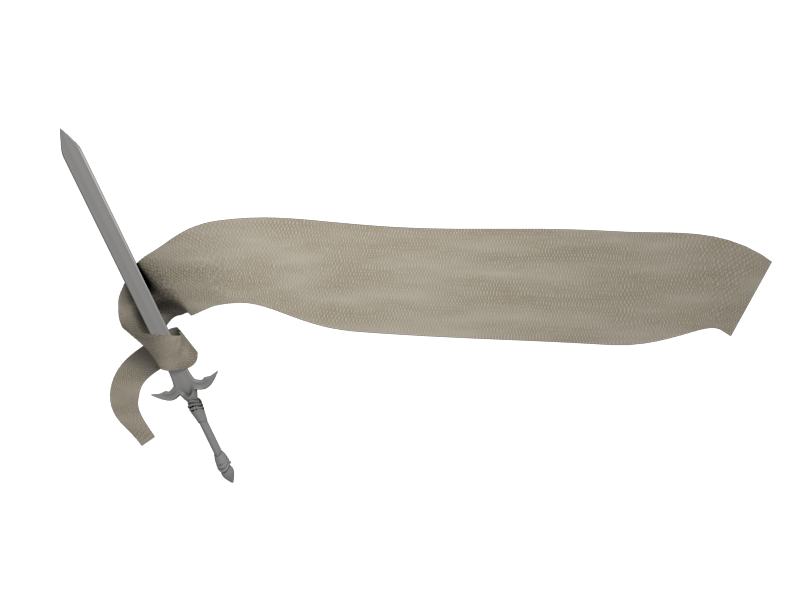
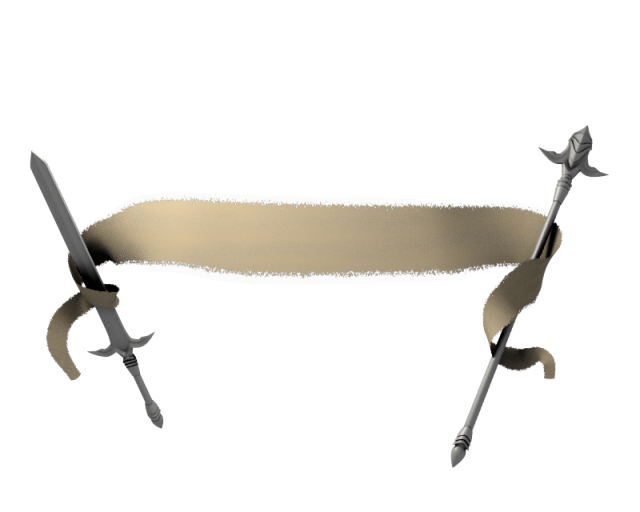
centering, new image, coloring for TurnActWindow/EncWindow

Changed region(s): [[0.0312, 0.2188, 0.9688, 0.9062]]

diff --git a/jcrpg/src/org/jcrpg/ui/window/element/TextLabel.java b/jcrpg/src/org/jcrpg/ui/window/element/TextLabel.java
@@ -38,11 +38,24 @@ public class TextLabel extends InputBase {
 	public String bgImage = defaultImage; 
 	public float textProportion = 400f;
 	public boolean useImage = false;
+	public boolean centered = false;
 	public TextLabel(String id, InputWindow w, Node parentNode, float centerX, float centerY, float sizeX,
 			float sizeY, float textProportion, String text, boolean useImage) {
 		super(id, w, parentNode, centerX, centerY, sizeX, sizeY);
 		this.text = text;
 		this.textProportion = textProportion;
+		this.useImage = useImage;
+		this.centered = useImage;
+		activate();
+	}
+	public TextLabel(String id, InputWindow w, Node parentNode, float centerX, float centerY, float sizeX,
+			float sizeY, float textProportion, String text, boolean useImage, boolean centered, ColorRGBA normalColor) {
+		super(id, w, parentNode, centerX, centerY, sizeX, sizeY);
+		this.normalColor = normalColor;
+		this.text = text;
+		this.textProportion = textProportion;
+		this.useImage = useImage;
+		this.centered = centered;
 		activate();
 	}
 	
@@ -66,7 +79,7 @@ public class TextLabel extends InputBase {
 				ex.printStackTrace();
 			}
 			
-			Node slottextNode = FontUtils.textVerdana.createOutlinedText(text, DEF_FONT_SIZE, new ColorRGBA(0.8f,0.8f,0.1f,1f),new ColorRGBA(0.1f,0.1f,0.1f,1f),useImage);
+			Node slottextNode = FontUtils.textVerdana.createOutlinedText(text, DEF_FONT_SIZE, normalColor,outlineColor,centered);
 			slottextNode.setLocalTranslation(dCenterX, dCenterY,0);
 			slottextNode.setRenderQueueMode(Renderer.QUEUE_ORTHO);
 			slottextNode.setLocalScale(w.core.getDisplay().getWidth()/textProportion);
@@ -94,7 +107,7 @@ public class TextLabel extends InputBase {
 			{
 				ex.printStackTrace();
 			}
-			Node slottextNode = FontUtils.textVerdana.createOutlinedText(text, DEF_FONT_SIZE, new ColorRGBA(0.5f,0.5f,0.1f,1f),new ColorRGBA(0.1f,0.1f,0.1f,1f),useImage);
+			Node slottextNode = FontUtils.textVerdana.createOutlinedText(text, DEF_FONT_SIZE, deactivatedColor, outlineColor,centered);
 			slottextNode.setLocalTranslation(dCenterX, dCenterY,0);
 			slottextNode.setRenderQueueMode(Renderer.QUEUE_ORTHO);
 			slottextNode.setLocalScale(w.core.getDisplay().getWidth()/textProportion);

diff --git a/jcrpg/src/org/jcrpg/ui/window/element/input/ListSelect.java b/jcrpg/src/org/jcrpg/ui/window/element/input/ListSelect.java
@@ -139,7 +139,7 @@ public class ListSelect extends InputBase {
 			return;			
 		}
 		String text = texts[selected+fromCount];
-		Node slottextNode = FontUtils.textVerdana.createText(text, DEF_FONT_SIZE, new ColorRGBA(1,1,0.1f,1f),true);
+		Node slottextNode = FontUtils.textVerdana.createText(text, DEF_FONT_SIZE, normalColor,true);
 		slottextNode.setLocalTranslation(dCenterX, dCenterY,0);
 		slottextNode.setRenderQueueMode(Renderer.QUEUE_ORTHO);
 		slottextNode.setLocalScale(w.core.getDisplay().getWidth()/fontRatio);
@@ -191,17 +191,17 @@ public class ListSelect extends InputBase {
 				
 				if (text==null) text = "## null ##";
 				
-				Node slottextNode = FontUtils.textVerdana.createText(text, DEF_FONT_SIZE, new ColorRGBA(1,1,0.1f,1f),true);
+				Node slottextNode = FontUtils.textVerdana.createText(text, DEF_FONT_SIZE, normalColor,true);
 				slottextNode.setLocalTranslation(dCenterX, dCenterY - dSizeY*i,0);
 				slottextNode.setRenderQueueMode(Renderer.QUEUE_ORTHO);
 				slottextNode.setLocalScale(w.core.getDisplay().getWidth()/fontRatio);
 				currentTextNodes.put(slottextNode,FontUtils.textVerdana);
 				if (i==selected && i!=maxVisible)
 				{
-					colorize(slottextNode, ColorRGBA.yellow);
+					colorize(slottextNode, normalColor);
 				} else
 				{
-					colorize(slottextNode, ColorRGBA.gray);
+					colorize(slottextNode, disabledColor);
 				}
 				textNodes.add(slottextNode);
 				baseNode.attachChild(slottextNode);

diff --git a/jcrpg/src/org/jcrpg/ui/window/interaction/EncounterWindow.java b/jcrpg/src/org/jcrpg/ui/window/interaction/EncounterWindow.java
@@ -77,13 +77,13 @@ public class EncounterWindow extends PagedInputWindow {
 		super(base);
 		
 		try {
-			Quad hudQuad = loadImageToQuad("./data/ui/nonPatternFrame1_trans.png", 0.50f*core.getDisplay().getWidth(), 0.3f*(core.getDisplay().getHeight() / 2), 
-	    			core.getDisplay().getWidth() / 2, 1.18f*core.getDisplay().getHeight() / 2);
+			Quad hudQuad = loadImageToQuad("./data/ui/popups/encounter.png", 0.6f*core.getDisplay().getWidth(), 1.2f*(core.getDisplay().getHeight() / 2), 
+	    			core.getDisplay().getWidth() / 2, 1.55f*core.getDisplay().getHeight() / 2);
 	    	hudQuad.setRenderState(base.hud.hudAS);
 	    	SharedMesh sQuad = new SharedMesh("",hudQuad);
 	    	pageIntro.attachChild(sQuad);
-	    	introTitle = new TextLabel("",this,pageIntro, 0.38f, 0.40f, 0.3f, 0.06f,300f,Language.v("encounterWindow.intro"),false);
-	    	new TextLabel("",this,pageIntro, 0.45f, 0.45f, 0.3f, 0.06f,500f,Language.v("encounterWindow.pressText"),false);
+	    	introTitle = new TextLabel("",this,pageIntro, 0.5f, 0.19f, 0.3f, 0.06f,450f,Language.v("encounterWindow.intro"),false,true,new ColorRGBA(0.1f,0.1f,0.7f,1f));
+	    	new TextLabel("",this,pageIntro, 0.5f, 0.22f, 0.3f, 0.06f,600f,Language.v("encounterWindow.pressText"),false,true,ColorRGBA.black);
 	    	
 	    	addPage(1, pageIntro);
 		} catch (Exception ex)

diff --git a/jcrpg/src/org/jcrpg/ui/window/interaction/TurnActWindow.java b/jcrpg/src/org/jcrpg/ui/window/interaction/TurnActWindow.java
@@ -91,13 +91,13 @@ public class TurnActWindow extends PagedInputWindow {
 		super(base);
 		
 		try {
-			Quad hudQuad = loadImageToQuad("./data/ui/popups/encounter.png", 0.57f*core.getDisplay().getWidth(), 1.15f*(core.getDisplay().getHeight() / 2), 
+			Quad hudQuad = loadImageToQuad("./data/ui/popups/encounter.png", 0.6f*core.getDisplay().getWidth(), 1.2f*(core.getDisplay().getHeight() / 2), 
 	    			core.getDisplay().getWidth() / 2, 1.55f*core.getDisplay().getHeight() / 2);
 	    	hudQuad.setRenderState(base.hud.hudAS);
 	    	SharedMesh sQuad = new SharedMesh("",hudQuad);
 	    	pageIntro.attachChild(sQuad);
-	    	introTitle = new TextLabel("",this,pageIntro, 0.42f, 0.19f, 0.3f, 0.06f,450f,Language.v("turnActWindow.intro"),false);
-	    	new TextLabel("",this,pageIntro, 0.49f, 0.22f, 0.3f, 0.06f,600f,Language.v("turnActWindow.pressText"),false);
+	    	introTitle = new TextLabel("",this,pageIntro, 0.5f, 0.19f, 0.3f, 0.06f,450f,Language.v("turnActWindow.intro"),false,true,new ColorRGBA(0.7f,0.1f,0.1f,1f));
+	    	new TextLabel("",this,pageIntro, 0.5f, 0.22f, 0.3f, 0.06f,600f,Language.v("turnActWindow.pressText"),false,true,ColorRGBA.black);
 	    	
 	    	addPage(1, pageIntro);
 		} catch (Exception ex)

diff --git a/jcrpg/src/org/jcrpg/ui/window/element/input/InputBase.java b/jcrpg/src/org/jcrpg/ui/window/element/input/InputBase.java
@@ -49,6 +49,11 @@ public abstract class InputBase {
 	
 	public static final String SOUND_INPUTSELECTED = "input_selected";
 	
+	protected ColorRGBA normalColor = new ColorRGBA(0.9f,0.9f,0.1f,1f);
+	protected ColorRGBA outlineColor = new ColorRGBA(0.05f,0.05f,0.05f,1f);
+	protected ColorRGBA deactivatedColor = new ColorRGBA(0.5f,0.5f,0.1f,1f);
+	protected ColorRGBA disabledColor = ColorRGBA.gray;
+	
 	public InputBase(String id, InputWindow w, Node parentNode, float centerX, float centerY, float sizeX, float sizeY)
 	{
 		this.id = id;
